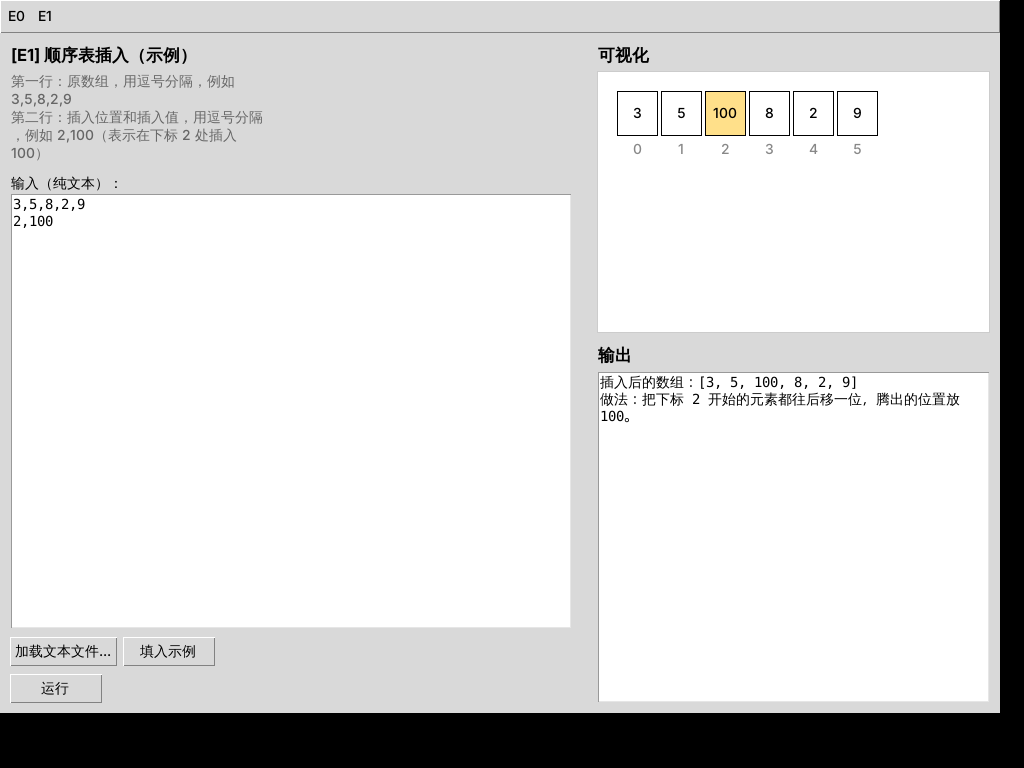
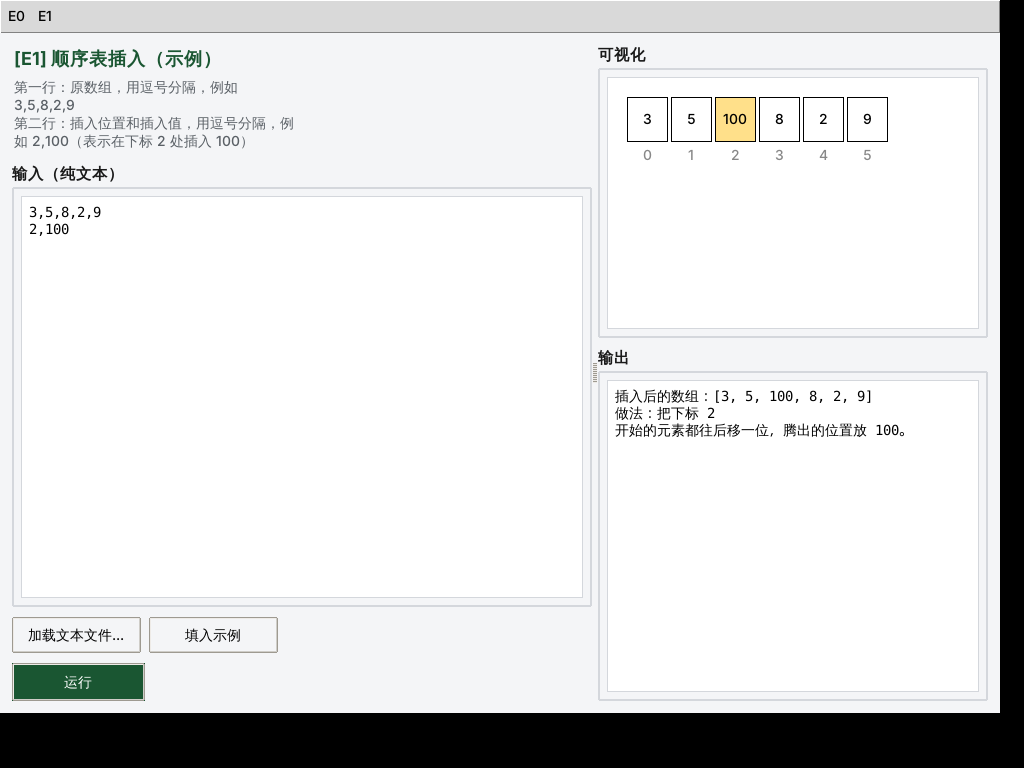
美化 Python 版界面：ttk 主题 + 分组边框，不再是原生灰色控件
用 ttk 的 clam 主题统一配色（墨绿色强调色，跟文档保持一致），输入/可视化/
输出三块都用 Labelframe 加边框分组，运行按钮用强调色突出主操作，整体
排版更规整。截图同步更新。

Claude-Session: https://claude.ai/code/session_01H1kom7vkjdaCTMFo3jyyjG

Changed region(s): [[0.0, 0.0312, 1.0, 0.9375]]

diff --git a/platform-python/app.py b/platform-python/app.py
@@ -12,17 +12,50 @@ from tkinter import ttk, filedialog, messagebox
 
 from visual import Visualizer
 
+# 统一配色，照搬课程文档用的墨绿色系，不需要改这几个值。
+BG = "#f4f5f7"
+ACCENT = "#1a5632"
+ACCENT_ACTIVE = "#154827"
+BORDER = "#d4d7dc"
+MUTED = "#5a6066"
+
 
 class PlatformApp(tk.Tk):
     def __init__(self, plugins):
         super().__init__()
         self.plugins = plugins
         self.title("数据结构实验插件平台（Python）")
-        self.geometry("980x680")
+        self.geometry("1020x700")
+        self.minsize(820, 560)
         self.current_plugin = None   # 当前选中的插件对象
 
+        self._setup_style()
         self._build_menu()
         self._build_layout()
+
+    def _setup_style(self):
+        self.configure(bg=BG)
+        style = ttk.Style(self)
+        # clam 主题支持自定义颜色，换个主题能让控件看起来不那么“原始系统风格”。
+        style.theme_use("clam")
+
+        style.configure(".", background=BG)
+        style.configure("TFrame", background=BG)
+        style.configure("TLabel", background=BG, foreground="#1a1a1a")
+        style.configure("Muted.TLabel", background=BG, foreground=MUTED)
+        style.configure("Header.TLabel", background=BG, foreground=ACCENT, font=("", 13, "bold"))
+        style.configure("Section.TLabel", background=BG, foreground="#1a1a1a", font=("", 11, "bold"))
+
+        style.configure("TLabelframe", background=BG, bordercolor=BORDER, relief="solid", borderwidth=1)
+        style.configure("TLabelframe.Label", background=BG, foreground="#1a1a1a", font=("", 11, "bold"))
+
+        style.configure("TButton", padding=(12, 6))
+        style.configure("Accent.TButton", padding=(14, 7), background=ACCENT, foreground="white")
+        style.map(
+            "Accent.TButton",
+            background=[("disabled", "#b9c7bf"), ("active", ACCENT_ACTIVE)],
+            foreground=[("disabled", "#f0f0f0")],
+        )
 
     def _build_menu(self):
         # 菜单栏：每个 category（比如 "E1"）是一个菜单，里面是这次课的所有插件
@@ -40,43 +73,57 @@ class PlatformApp(tk.Tk):
         self.config(menu=menubar)
 
     def _build_layout(self):
-        paned = ttk.PanedWindow(self, orient=tk.HORIZONTAL)
+        outer = ttk.Frame(self, padding=12)
+        outer.pack(fill=tk.BOTH, expand=True)
+
+        paned = ttk.PanedWindow(outer, orient=tk.HORIZONTAL)
         paned.pack(fill=tk.BOTH, expand=True)
 
         # ---------- 左侧：插件说明 + 输入框 ----------
-        left = ttk.Frame(paned, width=280)
+        left = ttk.Frame(paned, width=300)
         paned.add(left, weight=1)
 
-        self.title_label = ttk.Label(left, text="请从上方菜单选择一个插件", font=("", 12, "bold"), wraplength=260)
-        self.title_label.pack(anchor="w", padx=10, pady=(10, 4))
+        self.title_label = ttk.Label(left, text="请从上方菜单选择一个插件", style="Header.TLabel", wraplength=280)
+        self.title_label.pack(anchor="w", pady=(0, 4))
 
-        self.desc_label = ttk.Label(left, text="", foreground="#666", wraplength=260)
-        self.desc_label.pack(anchor="w", padx=10, pady=(0, 10))
+        self.desc_label = ttk.Label(left, text="", style="Muted.TLabel", wraplength=280, justify=tk.LEFT)
+        self.desc_label.pack(anchor="w", pady=(0, 12))
 
-        ttk.Label(left, text="输入（纯文本）：").pack(anchor="w", padx=10)
-        self.input_box = tk.Text(left, height=10)
-        self.input_box.pack(fill=tk.BOTH, expand=True, padx=10, pady=(0, 8))
+        input_frame = ttk.Labelframe(left, text="输入（纯文本）", padding=8)
+        input_frame.pack(fill=tk.BOTH, expand=True, pady=(0, 10))
+        self.input_box = tk.Text(
+            input_frame, height=10, wrap="word", relief="flat",
+            highlightthickness=1, highlightbackground=BORDER, highlightcolor=ACCENT,
+            padx=6, pady=6,
+        )
+        self.input_box.pack(fill=tk.BOTH, expand=True)
 
         btn_row = ttk.Frame(left)
-        btn_row.pack(fill=tk.X, padx=10, pady=(0, 8))
+        btn_row.pack(fill=tk.X, pady=(0, 10))
         ttk.Button(btn_row, text="加载文本文件...", command=self._on_load_file).pack(side=tk.LEFT)
-        ttk.Button(btn_row, text="填入示例", command=self._on_fill_example).pack(side=tk.LEFT, padx=6)
+        ttk.Button(btn_row, text="填入示例", command=self._on_fill_example).pack(side=tk.LEFT, padx=(8, 0))
 
-        self.run_btn = ttk.Button(left, text="运行", command=self._on_run, state=tk.DISABLED)
-        self.run_btn.pack(anchor="w", padx=10, pady=(0, 10))
+        self.run_btn = ttk.Button(left, text="运行", style="Accent.TButton", command=self._on_run, state=tk.DISABLED)
+        self.run_btn.pack(anchor="w")
 
-        # ---------- 中间：画布（上）+ 输出框（下） ----------
+        # ---------- 右侧：画布（上）+ 输出框（下） ----------
         right = ttk.Frame(paned)
         paned.add(right, weight=3)
 
-        ttk.Label(right, text="可视化", font=("", 12, "bold")).pack(anchor="w", padx=10, pady=(10, 4))
-        self.canvas = tk.Canvas(right, height=260, bg="white", highlightthickness=1, highlightbackground="#ccc")
-        self.canvas.pack(fill=tk.X, padx=10, pady=(0, 10))
+        vis_frame = ttk.Labelframe(right, text="可视化", padding=8)
+        vis_frame.pack(fill=tk.X, pady=(0, 10))
+        self.canvas = tk.Canvas(vis_frame, height=250, bg="white", highlightthickness=1, highlightbackground=BORDER)
+        self.canvas.pack(fill=tk.X)
         self.vis = Visualizer(self.canvas)
 
-        ttk.Label(right, text="输出", font=("", 12, "bold")).pack(anchor="w", padx=10, pady=(0, 4))
-        self.output = tk.Text(right, wrap="word")
-        self.output.pack(fill=tk.BOTH, expand=True, padx=10, pady=(0, 10))
+        output_frame = ttk.Labelframe(right, text="输出", padding=8)
+        output_frame.pack(fill=tk.BOTH, expand=True)
+        self.output = tk.Text(
+            output_frame, wrap="word", relief="flat",
+            highlightthickness=1, highlightbackground=BORDER, highlightcolor=ACCENT,
+            padx=6, pady=6,
+        )
+        self.output.pack(fill=tk.BOTH, expand=True)
 
     def _select_plugin(self, plugin):
         # 从菜单里点了某个插件之后，刷新左侧面板
